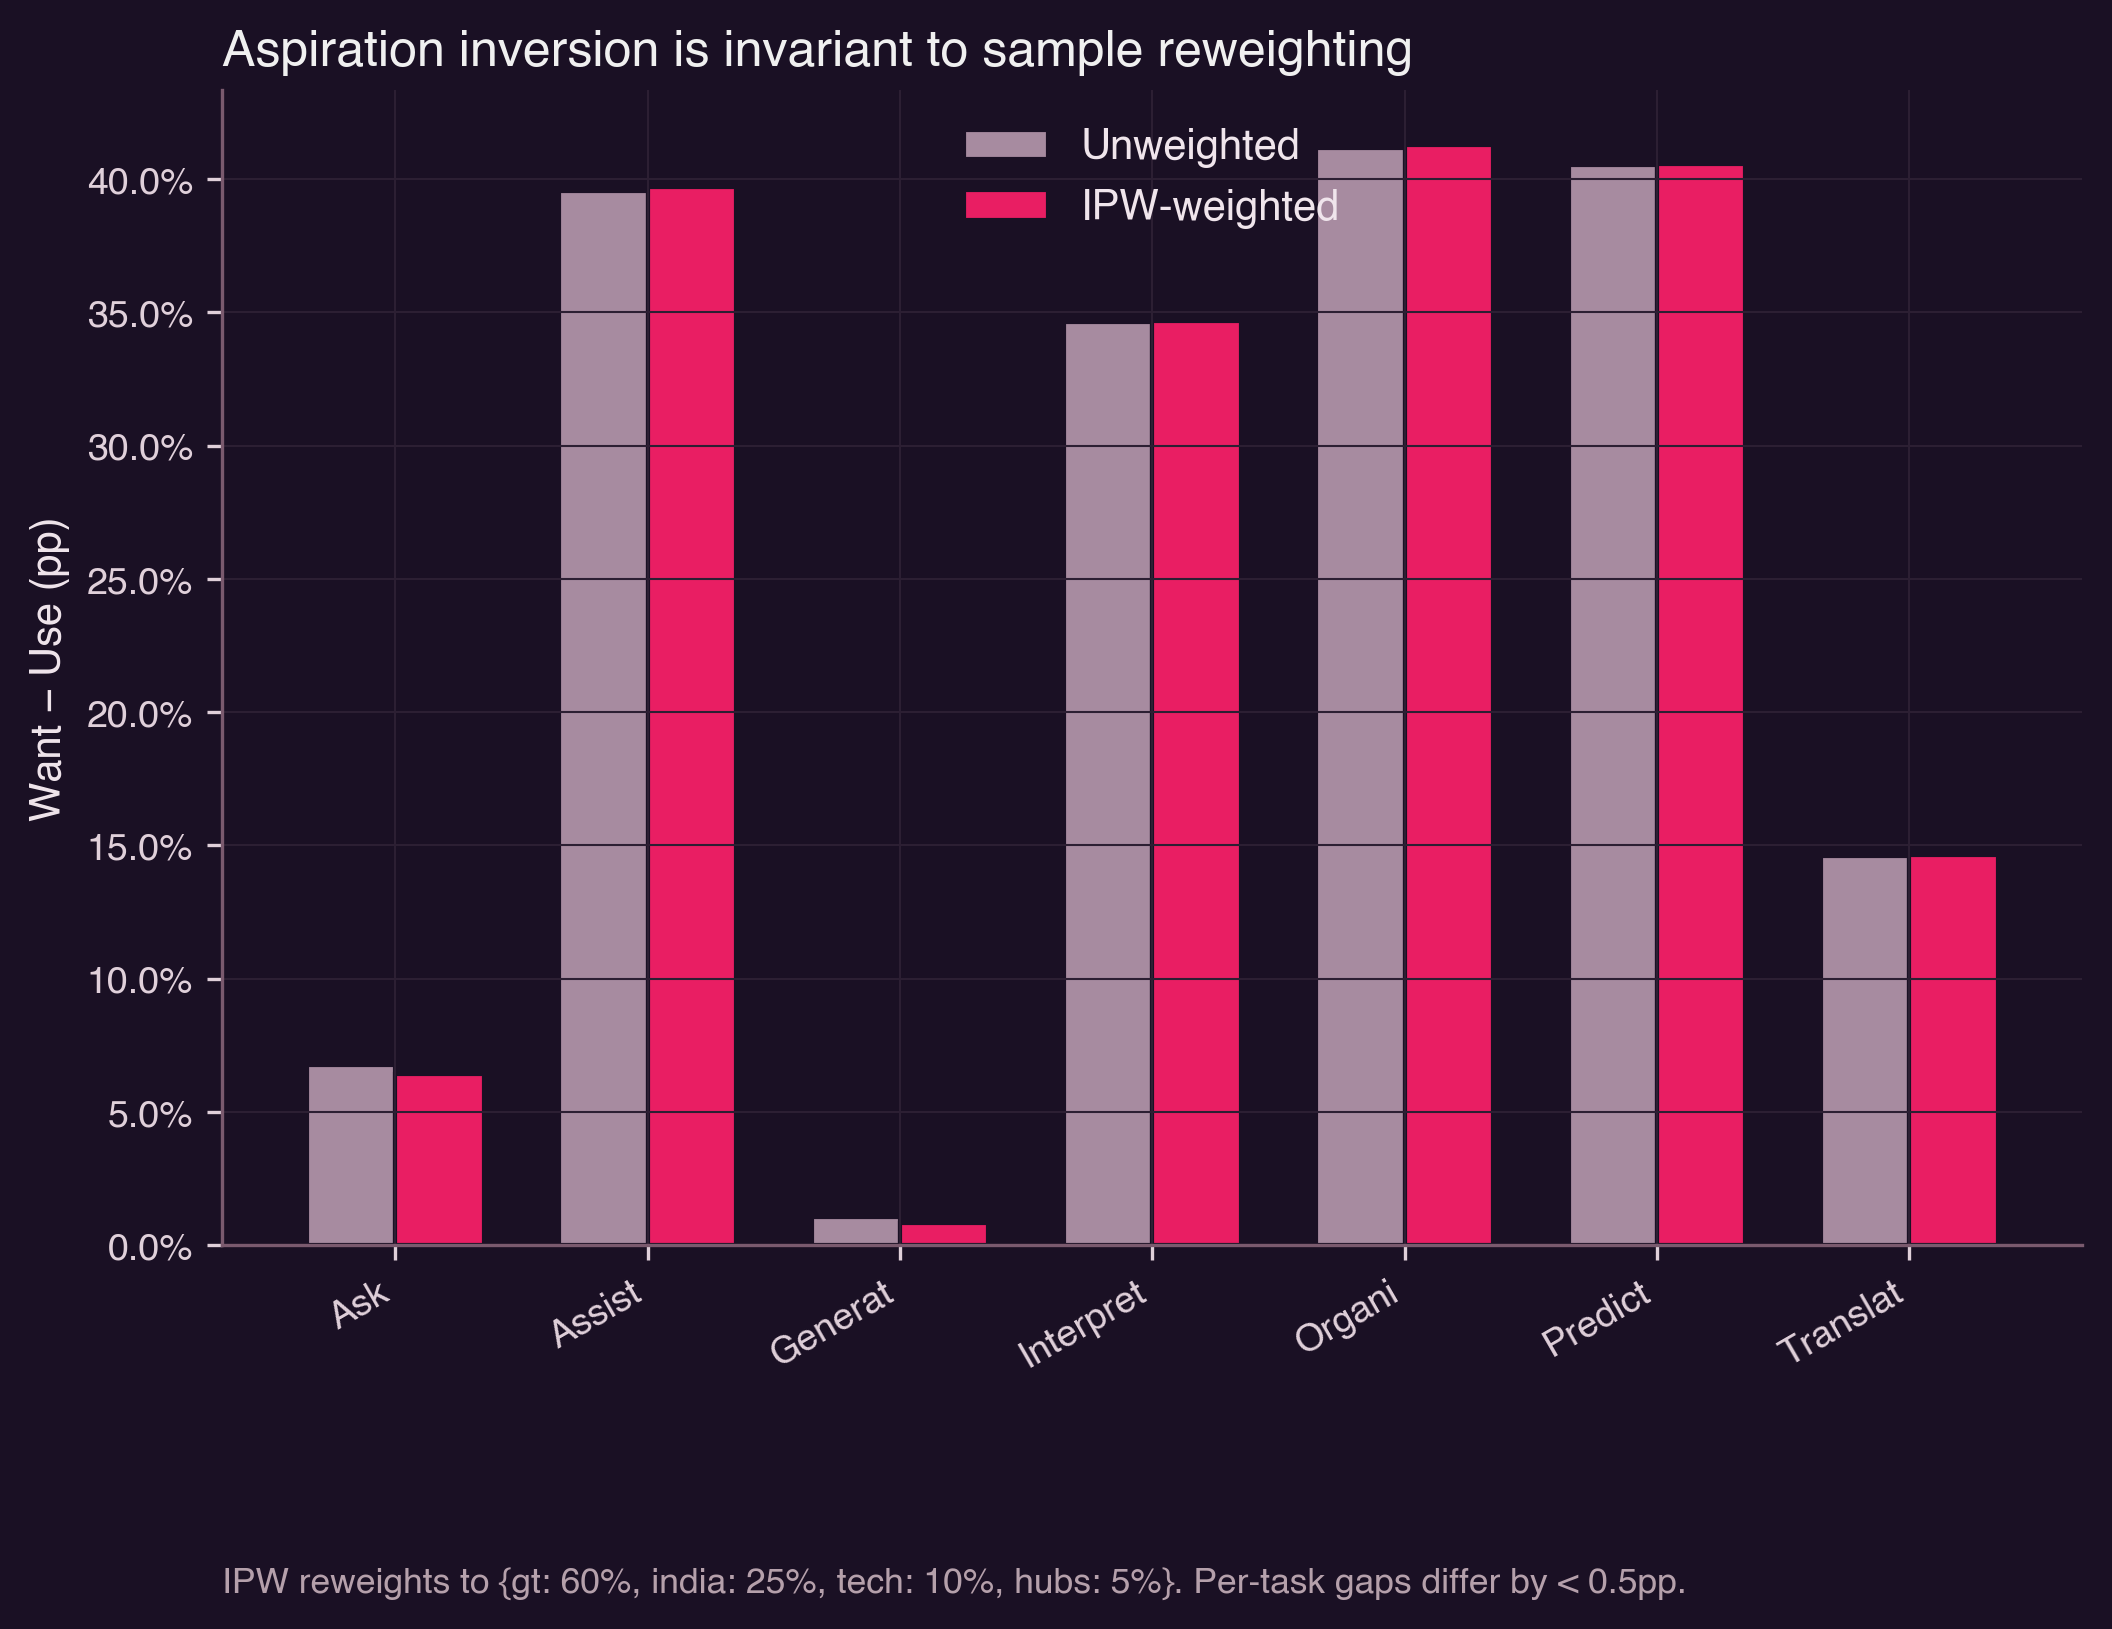
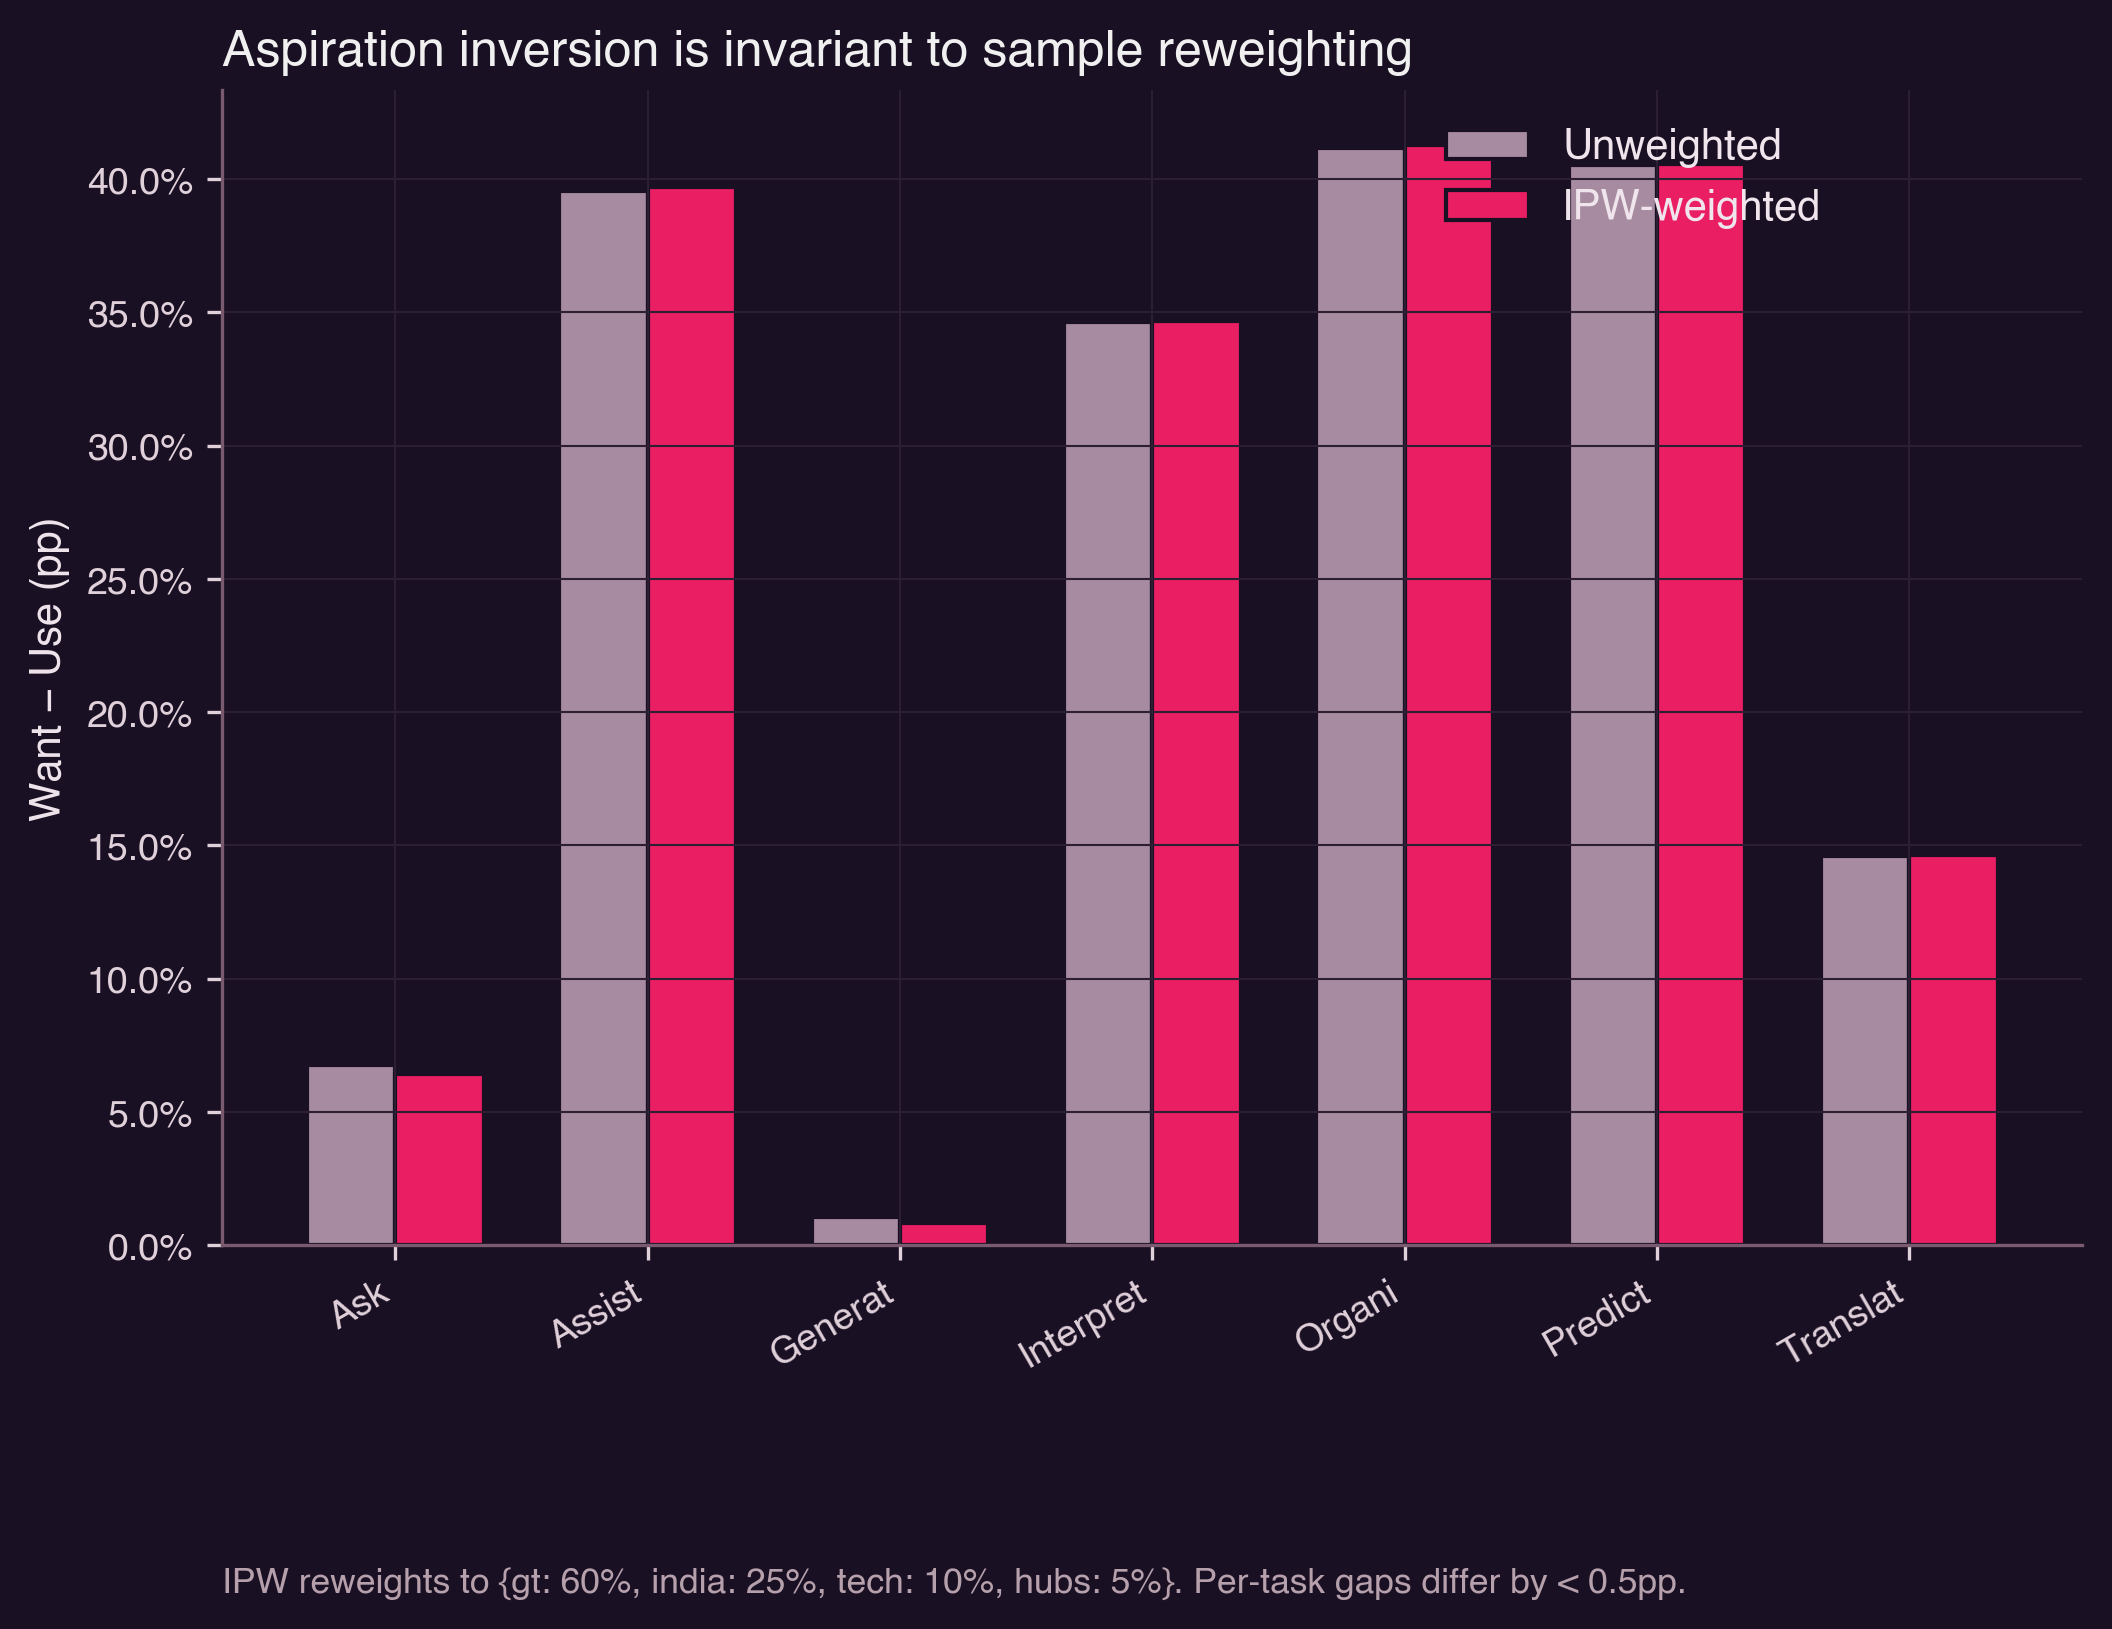
fig7: nudge legend slightly left of right edge

Changed region(s): [[0.4375, 0.0614, 0.625, 0.1535], [0.6875, 0.0614, 0.875, 0.1535]]

diff --git a/analysis/build_figures.py b/analysis/build_figures.py
@@ -380,7 +380,7 @@ def fig7_ipw_invariance(findings):
     ax.yaxis.set_major_formatter(mpl.ticker.PercentFormatter(1.0))
     ax.set_title("Aspiration inversion is invariant to sample reweighting",
                   loc="left")
-    ax.legend(frameon=False)
+    ax.legend(loc="upper right", bbox_to_anchor=(0.88, 1.0), frameon=False)
     ax.text(0, -0.30, "IPW reweights to {gt: 60%, india: 25%, tech: 10%, hubs: 5%}. Per-task gaps differ by < 0.5pp.",
              transform=ax.transAxes, fontsize=8.5, color="#B5A0AB")
     save(fig, "fig7_ipw_invariance")
